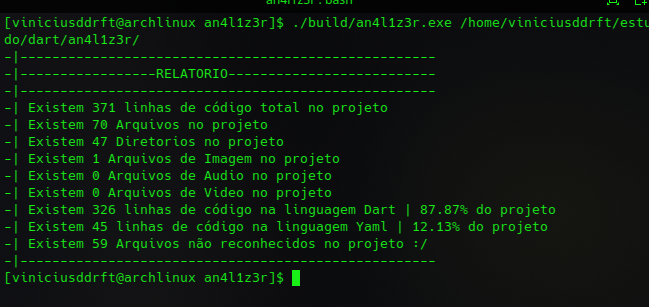
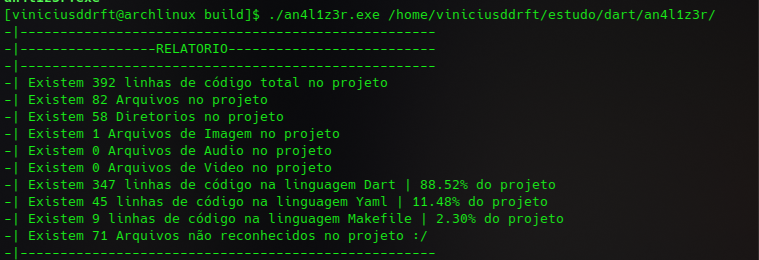
fix bug

Changed region(s): [[0.0, 0.0, 1.0, 1.0]]

diff --git a/lib/an4l1z3r/class_an4l1z3r.dart b/lib/an4l1z3r/class_an4l1z3r.dart
@@ -77,22 +77,35 @@ class An4l1z3r extends An4l1z3rBase {
 
     for (File file in data['files'] as List<File>) {
       final List<String> filteredFile = file.path.split('.');
-      if (filteredFile.length == 1 &&
-          filteredFile.first.split('/').last.isNotEmpty) {
-        if (typeFilesAndLines[FileExtension
-                .extensionsLanguagens[filteredFile.first.split('/').last]] ==
-            null) {
-          typeFilesAndLines[FileExtension
-                  .extensionsLanguagens[filteredFile.first.split('/').last]
-              as String] = file.readAsLinesSync(encoding: utf8).length;
-        } else {
-          typeFilesAndLines[
-              FileExtension
-                      .extensionsLanguagens[filteredFile.first.split('/').last]
-                  as String] = file.readAsLinesSync(encoding: utf8).length +
-              typeFilesAndLines[FileExtension
-                  .extensionsLanguagens[filteredFile.first.split('/').last]]!;
+
+      try {
+        if (filteredFile.length == 1 &&
+            filteredFile.first.split('/').last.isNotEmpty) {
+          if (typeFilesAndLines[FileExtension
+                  .extensionsLanguagens[filteredFile.first.split('/').last]] ==
+              null) {
+            typeFilesAndLines[FileExtension
+                    .extensionsLanguagens[filteredFile.first.split('/').last]
+                as String] = file.readAsLinesSync(encoding: utf8).length;
+            allLinesProject += file.readAsLinesSync(encoding: utf8).length;
+          } else {
+            typeFilesAndLines[FileExtension
+                    .extensionsLanguagens[filteredFile.first.split('/').last]
+                as String] = file
+                    .readAsLinesSync(encoding: utf8)
+                    .length +
+                typeFilesAndLines[FileExtension
+                    .extensionsLanguagens[filteredFile.first.split('/').last]]!;
+            allLinesProject += file.readAsLinesSync(encoding: utf8).length;
+          }
         }
+      } on FileSystemException catch (_) {
+        numberOfUnrecognizedFiles += 1;
+      } on TypeError catch (_) {
+        numberOfUnrecognizedFiles += 1;
+      } catch (erro, stackTrace) {
+        print(erro);
+        print(stackTrace);
       }
 
       if (fileHasExtension(filteredFile)) {
